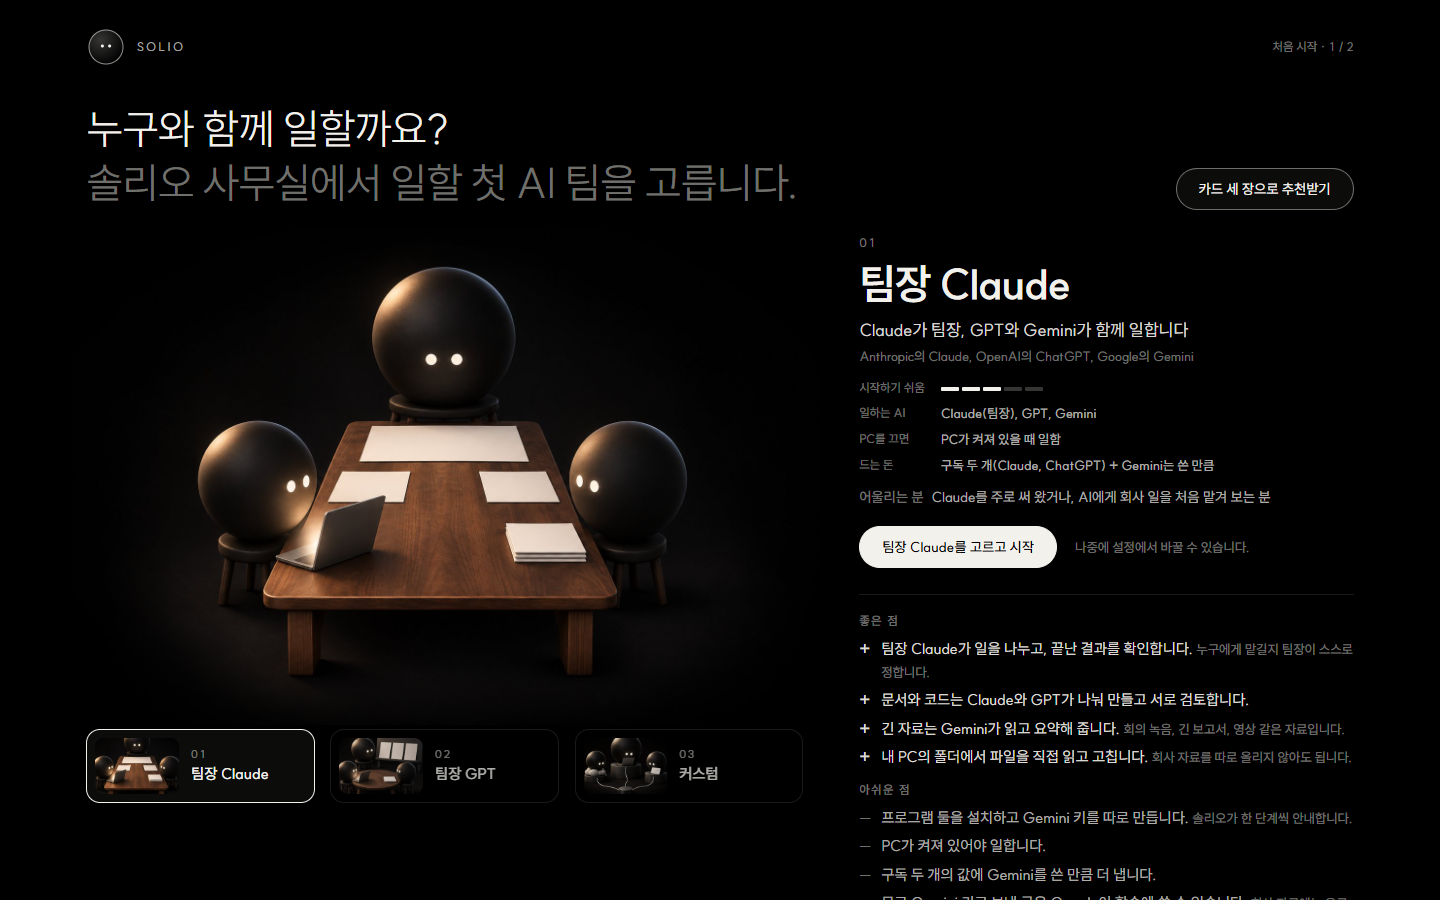
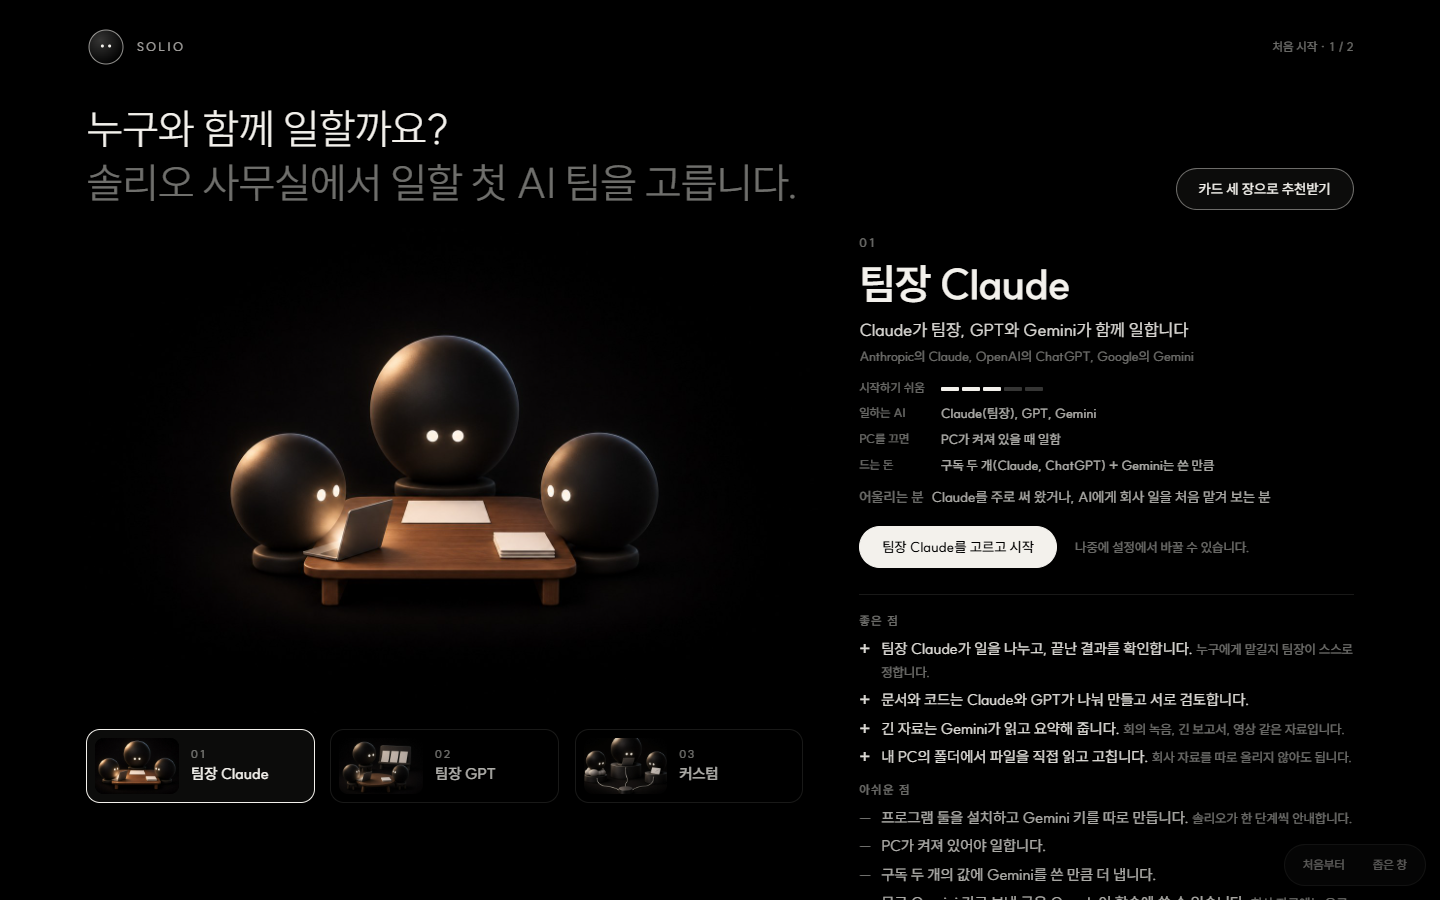
솔리오 첫 팀 고르기 9판: 굽기 계정이 다시 열려 팀장 Claude · 팀장 GPT 장면을 4판 결로 다시 구워 넣음(유호님 11-25 「4판 결로 맞춰」). 새틴 검정 구 · 둥근 점 눈 · 작고 단순한 소품

diff --git a/docs/_ops/트랙.md b/docs/_ops/트랙.md
@@ -73,7 +73,7 @@
 - **솔리오 구독 방을 비서처럼(11-20, Claude · 유호님 「지금 솔직히 이 구독현황판 너무 엉망이야. 완전 개인화 해줘야해」):** 구독 방 맨 위에 가장 급한 한 가지, 48시간 안의 일 세 줄, 오늘 출력 토큰의 실시간 숫자, 하루 한 번 진단을 두고 지금 줄은 「상세내역」 안으로 접었다. 설계와 Fable 설계 검토 반영은 [설계](../디자인/솔리오_구독비서_20261120/설계.md), 근거는 [결정](결정.md) 11-20, 앞으로의 원칙은 [로드맵 「솔리오는 그 사람만의 비서처럼 말한다」](../../experiences/solo-backup-rust/ROADMAP.md#solio-secretary)에 있다. 원천은 `desktop/renderer/solio-brief.mjs`(새 파일)와 본체 `desktop/src/ai-usage.cjs`의 주간 창 셈이다. 11-20 둘째로 유호님이 「아예 갈아엎어야해」라고 하셔서 화면을 문자판(유호님이 고르신 A, 설계 10절)으로 다시 지었다. 문자판 검수 카본 7건과 Fable 최종 7건은 반영했다(`.tmp/검수/solio-dial-20261120`). 같은 파일이 세 회차 연달아 P1을 내 설계 관문이 걸렸고, Opus 대체 설계 검토(「고쳐서 짓기」)대로 계정 사실 · 서비스 판정 · 풀 셈을 `subscriptions-model.mjs` 한 곳에 모았다([구조 다시 보기](../디자인/솔리오_구독비서_20261120/구조_다시보기_20261120.md)). 검수 사슬은 `solio-struct-20261120`(카본 2건 반영, Opus 대체 최종 P0·P1 0)이고 배포 조건을 채웠다. 0.5.0 공개 후보 카본 검수(`pc-0500-publish-20261120`)의 구독 방 P1 넷 가운데 E2 · E3은 `e1d759002`로 고쳤고, E1 · F1은 재현되지 않는 까닭을 0.5.0 세션에 넘겼다. 0.5.0에 실어 11-20에 공개했다. 그 뒤 미뤄 둔 고침 여섯(최종 검수 P2 둘과 P3 하나, 공개 후보 카본 P2 셋 E6 · F2 · D1)을 11-20에 master에 올렸다(`cb0c9f184`부터 `81a7be401`까지). 크레딧형 진단의 판정 문턱(90% · 10%)도 화면에 보이는 %로 견주게 고쳤다(`9d7f36ee7`, 유호님 「남은거 고쳐」). 검수 사슬은 `solio-pub-p2-20261120`(카본 1건, Opus 대체 최종 P1 1건 · P2 3건 반영)에서 다시 검수 `-2`부터 `-5`까지 이어졌고, `-5`에서 지적 0건으로 배포 조건을 채웠다. 남은 일: ① 다음 PC 판 동결 때 싣는다(PC 판을 맡은 세션, 볼 사슬은 `solio-pub-p2-20261120-5`). 진단은 트레이 알림으로 보내지 않기로 했다(유호님 11-21 「니 추천대로 해줘」, 결정 11-21). ② 11-23 밤 구독이 없을 때의 빈 방을 고쳤다([설계](../디자인/솔리오_구독비서_20261120/설계.md) 3.5, 같은 검수 사슬, 다음 PC 판). 다시 본 맹검은 기각 4점이고 남은 지적은 빈 방의 짜임이다.
 - **솔리오 사무실 · 기획부와 사업계획서(11-21, Claude · 유호님 「시안에 넣기」, 11-23 「다시 짓기」 · 「실제 앱에 만들기」):** 시안은 [아티팩트](https://claude.ai/artifact/8DKqeLC44W7JkKtAcho2nc)와 [시안 README](../디자인/솔리오_사무실_20261119/README.md)의 담은 것 18에 있다. 11-23에 Windows 개발판에 지었다. 기획부 줄의 「사업계획서」를 누르면 작업 화면이 열리고, 직원이 회사 자료와 다른 숫자, 근거 없는 문장, 빈약한 평가 항목을 짚는다. 고른 고침은 원본 옆 새 파일로 저장한다. 일 맡기기가 켜진 판에서만 보인다. 개발판 앱 창에서 GPT 직원으로 넣기부터 저장까지 확인했다. 설계와 확인 기록은 [사업계획서 설계](../디자인/솔리오_사무실_20261119/사업계획서_설계.md) 10.1절과 13절에 있다. 남은 일: ① 이 PC의 Claude 로그인이 풀려 있어 Claude 직원으로는 아직 돌려 보지 못했다. ② 미학 맹검(카본)을 앱 창 캡처로 네 번 돌렸고 모두 기각이었다(마지막 3~5점, 설계 10.1절). 남은 지적 가운데 순검정 바탕은 공간 안의 흐린 빛으로 고쳐 PC 앱 원천에 넣었다(유호님 11-23 「앱에 넣기」, [결정](결정.md) 11-23, 다음 PC 판에 실린다). 머리 막대에 이름을 늘 보이던 고침은 유호님 11-24 「원래대로 되돌려」로 되돌렸다(c8c2304d0). ③ 정식 판에 실을지는 유호님이 써 보시고 정하신다.
 - **솔리오 사무실 스킨 시안 · BM 초안(11-23, Claude · 유호님 「사무실 스킨같은거 파려고하는데 이것도 초안 같이 만들어보는거 어때 ?」):** 시안은 호두나무 서재 스킨, 직원 한 명마다 모자, 이름 바꾸기로 범위를 닫았다(「일단 호두나무랑 모자.이름 뺴고는 뭐 추가하지말자. 마무리해」). 같은 날 「둘다 무료로 하고 pc앱에 옮겨」에 따라 셋 다 무료로 PC 앱 사무실 방의 「꾸미기」 줄에 옮겼다. 설계와 검토는 [PC 앱 설계](../디자인/솔리오_사무실스킨_20261123/PC앱_설계.md), 시안과 화면은 [README](../디자인/솔리오_사무실스킨_20261123/README.md)에 있다. Fable 설계 검토 19건(반영 19), 카본 화면 검수 2건(반영 2), 미학 맹검 카본 두 회차, 화면 최종 검수(유호님 「지금 돌려」, Fable 한도로 Opus 5.5 대체) 3건(반영 3)을 거쳤다. 남은 일: PC 앱 다음 공개에 싣는다. 최종 검수 뒤 고친 P2 · P3는 그 판 검수(`다시 … --앞 solio-office-looks-20261123`)에 넣는다.
-- **솔리오 처음 시작 · AI 팀 고르기 시안(11-21, Claude · 유호님 「직업 선택처럼 계정을 선택하는 화면」):** 솔리오를 처음 켜면 그록 봇, Claude + GPT, 커스텀 세 카드에서 사무실의 첫 AI 팀을 고른다. 카드를 누르면 좋은 점과 아쉬운 점이 한 줄씩 떨어지고, 카드 세 장으로 추천받기와 OAuth · CLI · MCP 연결 차례가 있다. [시안 README](../디자인/솔리오_첫계정고르기_20261121/README.md). 11-22에 카드마다 같은 검은 구 직원으로 구운 3D 장면을 넣었다. 미학 맹검은 세 판 모두 기각(3~4점)이고 짜임 자체가 남은 지적이다. PC 앱에는 옮기지 않았다. 11-23 유호님 「Yes, rebuild it」로 5판에서 짜임을 바꿨다(팀 하나가 크게 서는 무대, 연결은 직원이 사무실 바닥의 자기 부서 자리로 가는 장면). 같은 날 유호님 「그록봇을 빼고」로 6판에서 팀을 바꾸고 1번 · 2번 장면을 새로 구웠다(eb07ff775). 유호님이 6판에 「너무 훌륭해 깔끔하다」라고 하셨다. 이어 Gemini 정책 위험 말씀으로 7판에서 팀을 「팀장 Claude + GPT + Gemini API」, 「팀장 GPT + Claude + Gemini API」, 「커스텀」으로 바꿨다(결정 11-23 「Gemini는 API로만」). 6판과 7판은 맹검에 내지 않았다. 11-24 유호님 「정본으로 바꿔」로 8판에서 그림 속 구를 PC 앱 정본(「구 가」, 세로 알약 눈)으로 다시 구웠다(짜임은 그대로). 11-25 유호님 「4판 결로 맞춰」로 9판에서 7판 그림으로 되돌렸다(금속 구는 「완전 대놓고 3d라 오히려 좀 촌스러운」). 팀장이 일을 나누는 길은 사무실 구현 설계 8.1에 넣었다(결정 11-23). 남은 일: 솔리오가 고객 PC의 Claude Code · Codex를 구독 로그인 그대로 부르는 쓰임이 각 약관에서 되는지 출시 전에 확인한다. 팀장 Claude · 팀장 GPT 장면을 4판처럼 더 단순하게 다시 굽는 일(지시문 `판/지시문/4결_*.txt`)은 굽기 계정이 풀린 뒤에 한다.
+- **솔리오 처음 시작 · AI 팀 고르기 시안(11-21, Claude · 유호님 「직업 선택처럼 계정을 선택하는 화면」):** 솔리오를 처음 켜면 그록 봇, Claude + GPT, 커스텀 세 카드에서 사무실의 첫 AI 팀을 고른다. 카드를 누르면 좋은 점과 아쉬운 점이 한 줄씩 떨어지고, 카드 세 장으로 추천받기와 OAuth · CLI · MCP 연결 차례가 있다. [시안 README](../디자인/솔리오_첫계정고르기_20261121/README.md). 11-22에 카드마다 같은 검은 구 직원으로 구운 3D 장면을 넣었다. 미학 맹검은 세 판 모두 기각(3~4점)이고 짜임 자체가 남은 지적이다. PC 앱에는 옮기지 않았다. 11-23 유호님 「Yes, rebuild it」로 5판에서 짜임을 바꿨다(팀 하나가 크게 서는 무대, 연결은 직원이 사무실 바닥의 자기 부서 자리로 가는 장면). 같은 날 유호님 「그록봇을 빼고」로 6판에서 팀을 바꾸고 1번 · 2번 장면을 새로 구웠다(eb07ff775). 유호님이 6판에 「너무 훌륭해 깔끔하다」라고 하셨다. 이어 Gemini 정책 위험 말씀으로 7판에서 팀을 「팀장 Claude + GPT + Gemini API」, 「팀장 GPT + Claude + Gemini API」, 「커스텀」으로 바꿨다(결정 11-23 「Gemini는 API로만」). 6판과 7판은 맹검에 내지 않았다. 11-24 유호님 「정본으로 바꿔」로 8판에서 그림 속 구를 PC 앱 정본(「구 가」, 세로 알약 눈)으로 다시 구웠다(짜임은 그대로). 11-25 유호님 「4판 결로 맞춰」로 9판에서 금속 구를 걷고, 팀장 Claude · 팀장 GPT 장면을 4판 결로 다시 구웠다(금속 구는 「완전 대놓고 3d라 오히려 좀 촌스러운」). 팀장이 일을 나누는 길은 사무실 구현 설계 8.1에 넣었다(결정 11-23). 남은 일: 솔리오가 고객 PC의 Claude Code · Codex를 구독 로그인 그대로 부르는 쓰임이 각 약관에서 되는지 출시 전에 확인한다.
 - **솔리오 사업계획서 쓰기와 첫 업무 심사 시안(11-23, Claude · 유호님 「시안 만들어줘」, 11-24 「너무 불친절한것같아 … 마스코트 집어넣어서」):** 로그인 뒤 AI 팀을 고르기 전에 사업계획서 일곱 장(문제부터 BM까지)을 쓰고, 팀을 고른 뒤 첫 업무로 심사위원 구 셋(Opus · Sol · Sonnet)이 발표자 구를 심사한다. 쓰는 동안 솔리오 구가 장마다 왜 필요한지 말해 주고, 심사는 블렌더로 구운 무대에서 30초쯤 말풍선 · 효과음 · 표정으로 흐른 뒤 항목별 점수와 먼저 고칠 셋을 보인다. [아티팩트](https://claude.ai/artifact/WFptx2zwQcepNibTHHzgs1), [시안 README](../디자인/솔리오_사업계획서_첫화면_20261123/README.md). PC 앱에는 옮기지 않았다. 남은 일: 유호님이 보시고 고르신다. 이 심사만 점수를 매기는 것은 사무실 사업계획서 설계의 「점수를 매기지 않는다」와 다르므로, 앱에 옮길 때 함께 정한다(README 「아직 정하지 않은 것」).
 - **솔리오 구독 방 · 계정 먼저, 그다음 보고(11-24, Claude · 유호님 「지금 우리 구독관리 프론트가 너무 불친절해 … 클로드,gpt 구독량 어떤 계정이 남아있는지 먼저」):** PC 앱 솔리오 구독 방 첫 화면에 Claude · Codex 계정마다 남은 양(금색 막대와 %)과 지금 쓸 수 있는 계정 수를 먼저 두고, 「솔리오 보고」가 할 일을 급한 차례로 쓴다. 넓은 창은 계정판 왼쪽 · 보고 오른쪽이다(쌍 맹검으로 고름). 11-20 문자판은 그리지 않는다. 설계와 검수 기록은 [설계 11절](../디자인/솔리오_구독비서_20261120/설계.md#accounts-first-20261124), 원천은 `desktop/renderer/solio-brief.mjs`(briefBoard · briefReport) · `orb-face-view.mjs` · `orb-face.css`다. 캡처는 git 밖 `.tmp/solio-subs-accounts-20261124/`(실제 자료 `qa20-g-real`, 이름을 바꾼 자료 `qa20-g-anon`). 검수 사슬은 `solio-subs-accounts-20261124`부터 `-e`까지다. 남은 일: ① 다음 PC 판 동결 때 싣는다(PC 판을 맡은 세션, 볼 사슬은 `solio-subs-accounts-20261124-e`). 상세내역 줄 글을 고친 `solio-today.mjs` · `solio-rooms.mjs` 한 줄씩은 이 사슬 범위 밖이라 PC 판 공개 후보 검수에서 함께 본다. ② 맹검이 남긴 이 변경 밖의 지적: 「견적 비서 열기」 단추의 뜻과 자리(견적 비서 쪽), SOLIO 머리 옆에 방 이름이 없음. ③ 다시 검수 -e의 P3 둘(후속): 폭 640 이하 · 높이 761~900 창의 줄인 배치를 재어 정하기, 실제 자료(열린 계정 셋)로 960×901에 보고 셋을 채워 재기.
 - **솔리오 사무실 · 빈 구독 방 짜임(11-24, Claude · 유호님 「둘 다 옮겨」 · 「원래대로 되돌려」):** 사무실 첫 화면과 연결한 구독이 없는 구독 방을 짜임부터 다시 지어 쌍 맹검으로 골랐다. 사무실은 지금 짜임(왼쪽 바닥 그림 · 오른쪽 줄)에 불 켜진 바닥과 누르는 곳 구분을 더한 C판이다. 일하는 자리에만 빛이 떨어지고, 일하는 직원 앞에 노트북 화면 빛이 있다. 설정 · 꾸미기 · 부서 더하기는 한 줄의 알약 단추이고 부서 더하기만 꽉 찼다. 빈 구독 방은 「구독 연결하기」 아래에 흐린 예시 계정판을 둔 A판이다. 모든 방에서 눌러서 여는 줄은 끝에 「›」를 둔다. 11-23에 늘 보이게 했던 머리 막대의 프로그램 이름은 되돌렸다(아이콘과 지금 방 이름만). 시안과 맹검 기록은 [시안 README](../디자인/솔리오_방짜임_20261124/README.md), 원천은 `desktop/renderer/office-floor.mjs` · `orb-face.css` · `orb-face-view.mjs`다. 검수 사슬은 `solio-room-layout-20261124`다(카본 2건 반영, Fable 주간 96%라 Opus 대체 최종 5건은 모두 후속). 남은 일: ① 다음 PC 판 동결 때 싣는다(PC 판을 맡은 세션, 볼 사슬은 `solio-room-layout-20261124`). 대체 최종의 후속 다섯(띠 그림자, 낮은 창의 예시판, 바닥 왼쪽 끝, 알약 판 하나만, 노트북 방향)은 고쳤다([시안 README 검수 후속](../디자인/솔리오_방짜임_20261124/README.md#검수-후속1124)). 이 고침은 다음 PC 판 공개 후보 검수에서 함께 본다.

diff --git a/docs/디자인/솔리오_첫계정고르기_20261121/README.md b/docs/디자인/솔리오_첫계정고르기_20261121/README.md
@@ -60,7 +60,7 @@
 
 - 세 그림을 7판 그림으로 되돌렸다. 7판은 4판과 같은 결이고, 유호님이 「너무 훌륭해 깔끔하다」라고 하신 6판과 같은 굽기에서 나왔다. 커스텀은 4판 그림 그대로다. 8판 원본(`판/정본_*`)은 지우지 않았다.
 - 공통 지시문(`판/지시문/공통.txt`)도 7판 판으로 되돌렸다. 연결 화면 사무실 바닥의 작은 구 눈은 둥근 점으로 되돌렸다.
-- 팀장 Claude와 팀장 GPT 장면을 4판처럼 더 단순하게 다시 구울 지시문은 `판/지시문/4결_claude.txt` · `4결_gpt.txt`다. 4판 그림 둘(`판/duo_024730.png` · `판/custom_024910.png`)을 결 기준으로, 7판 원본을 짜임 기준으로 준다. 11-25 0시에는 굽기 계정 셋이 모두 주간 한도에 걸려 굽지 못했다(가장 이른 풀림 11-28 22:30).
+- 같은 날 04시에 굽기 계정 하나가 다시 열려, 팀장 Claude와 팀장 GPT 장면을 4판처럼 더 단순하게 다시 구워 넣었다. 지시문은 `판/지시문/4결_claude.txt` · `4결_gpt.txt`이고, 4판 그림 둘(`판/duo_024730.png` · `판/custom_024910.png`)을 결 기준으로, 7판 원본을 짜임 기준으로 주었다. 원본은 `판/4결_claude_041836.png` · `판/4결_gpt_041836.png`다.
 
 ## 미학 맹검
 
